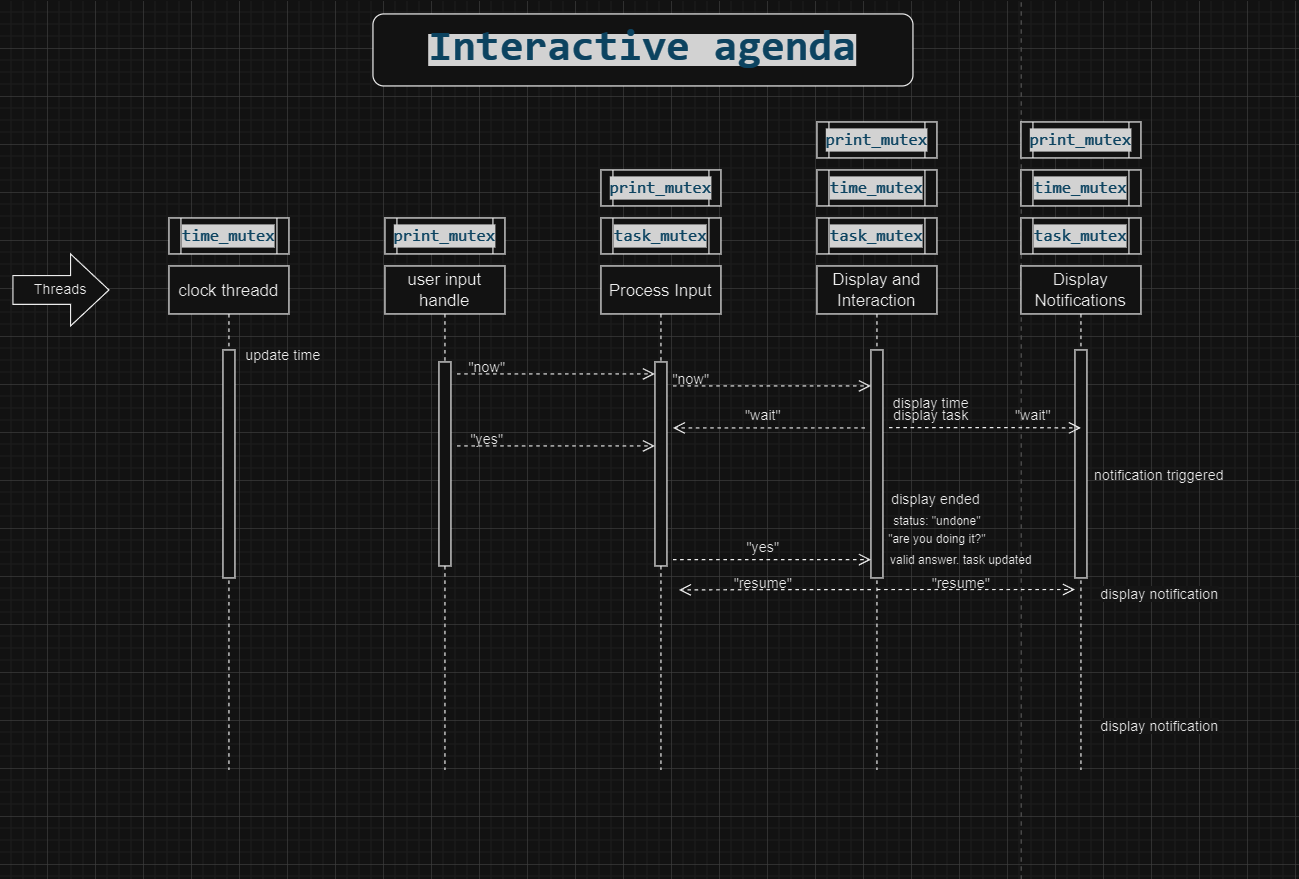
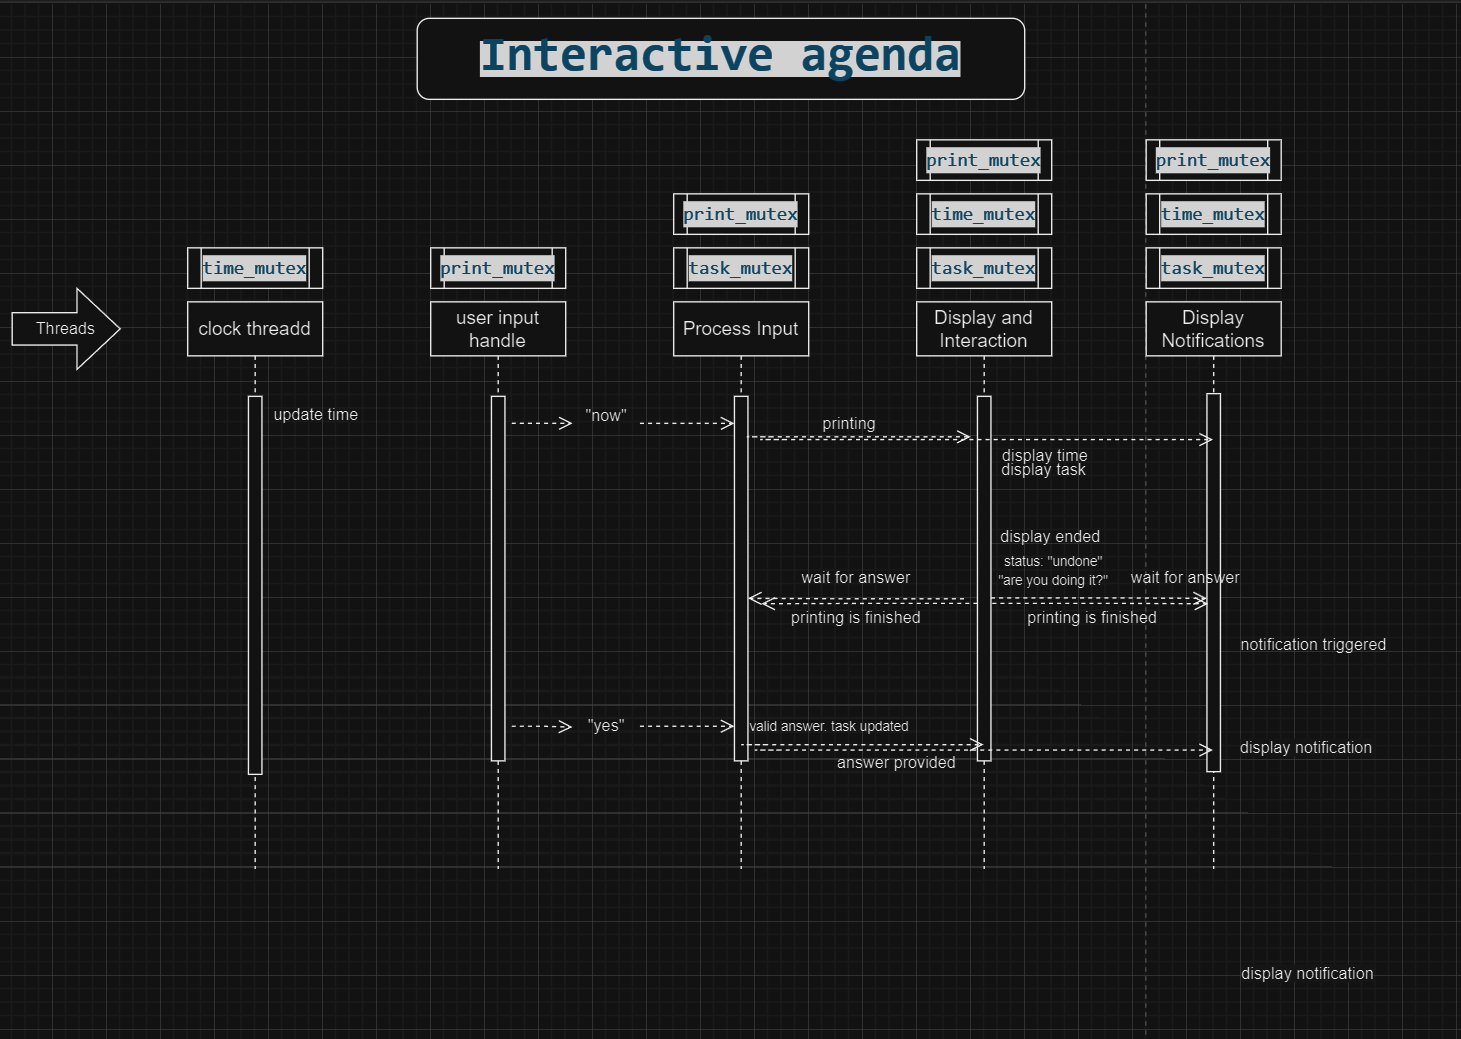
Update flowchart

diff --git a/agenda.c b/agenda.c
@@ -325,7 +325,6 @@ void *display_and_interaction(void *arg)
         pthread_mutex_lock(&state->print_mutex);
         if (state->print_time)
         {
-            state->print_time = 0;
             pthread_mutex_lock(&state->time_mutex);
 #ifdef DEBUG
             display_time(&state->virtual_tm_info);
@@ -337,6 +336,7 @@ void *display_and_interaction(void *arg)
                 display_task_info(state, state->input_buffer, 0);
 
             pthread_mutex_unlock(&state->time_mutex);
+            state->print_time = 0;
         }
         pthread_mutex_unlock(&state->print_mutex);
         usleep(100000); // Small delay to avoid busy-waiting
@@ -351,8 +351,8 @@ void *display_notifications(void *arg)
     while (1)
     {
         pthread_mutex_lock(&state->print_mutex);
-        // Check if there's no response awaited
-        if (!state->awaiting_response)
+        // Check if there's no task being printed  and no response awaited
+        if (!state->print_time && !state->awaiting_response)
         {
             pthread_mutex_lock(&state->time_mutex);
             display_task_notification(state);
@@ -441,8 +441,6 @@ void *process_input(void *arg)
                 {
                     printf("Invalid input. Please enter 'now' or a time in HH:MM format:\n");
                     fflush(stdout);
-                    // Set input_flag to 0 to indicate that new input is required
-                    state->input_flag = 0;
                 }
             }
 
